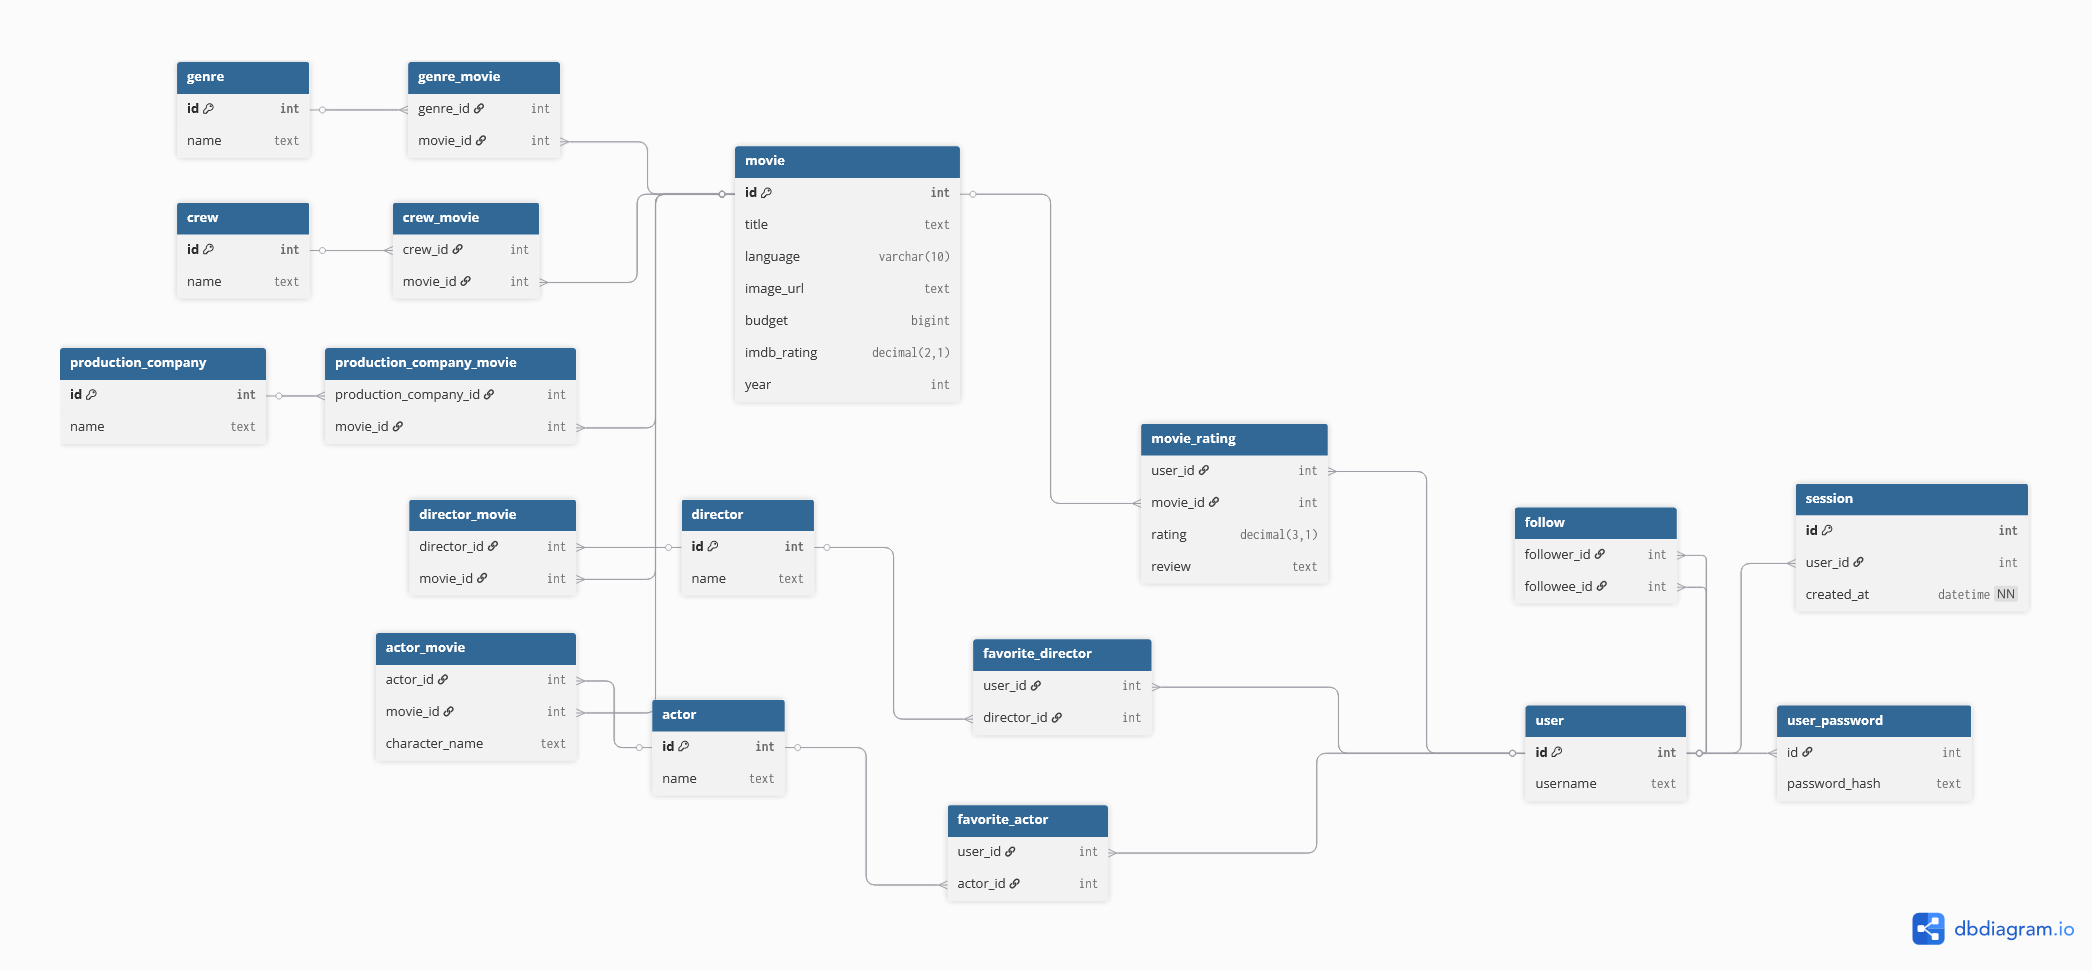
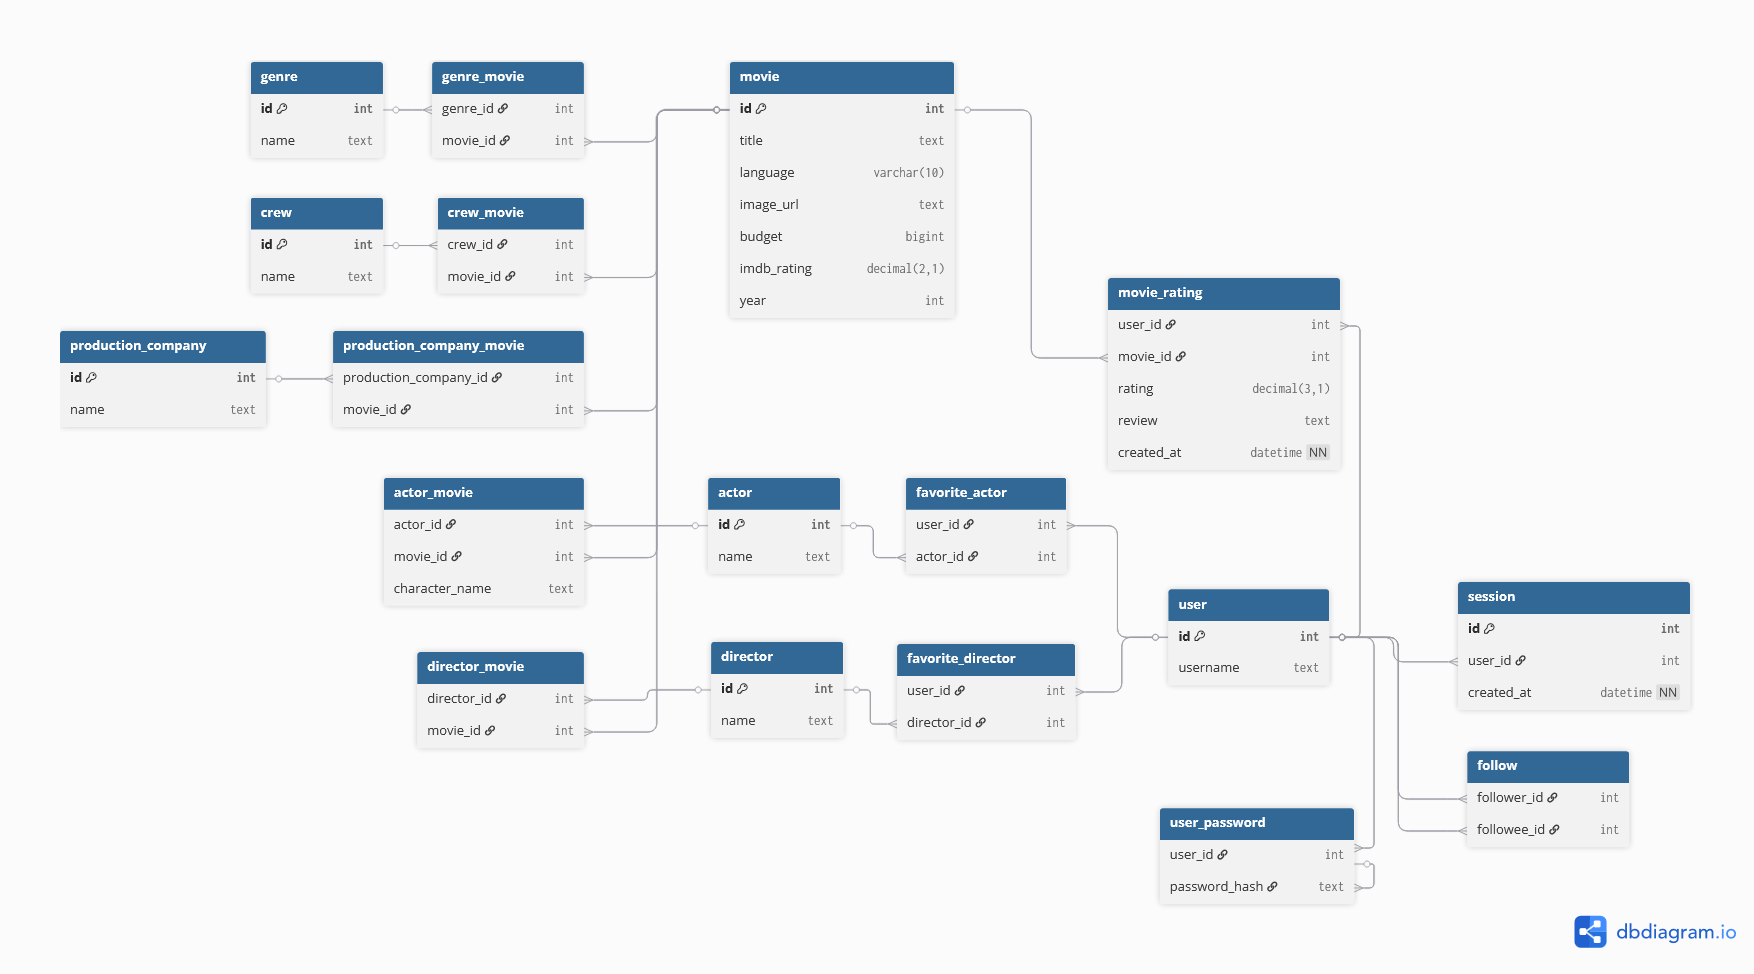
Add session token

diff --git a/database_utils.py b/database_utils.py
@@ -155,8 +155,6 @@ def get_movie(title, year = None) -> dict:
             sql = """insert into genre_movie (movie_id, genre_id) values (%s, %s)"""
             cursor.execute(sql, (movie_id, genre_id))
         
-        
-        
         conn.commit()
         conn.autocommit=True
         
@@ -187,9 +185,62 @@ def get_movie_by_id(id) -> dict:
         return ret
     else:
         return None
+    
+def get_movie_directors(movie_id):
+    sql = """select d.name from movie m 
+        join director_movie md on md.movie_id = m.id
+        join director d on md.director_id = d.id
+        where m.id = %s;"""
+    cursor = conn.cursor(dictionary=True)
+    cursor.execute(sql, (movie_id,))
+    ret = cursor.fetchall()
+    if ret:
+        return [i["name"] for i in ret]
+    else:
+        return []
+    
+def get_movie_genres(movie_id):
+    sql = """select g.name from movie m 
+        join genre_movie mg on mg.movie_id = m.id
+        join genre g on mg.genre_id = g.id
+        where m.id = %s;"""
+    cursor = conn.cursor(dictionary=True)
+    cursor.execute(sql, (movie_id,))
+    ret = cursor.fetchall()
+    if ret:
+        return [i["name"] for i in ret]
+    else:
+        return []
+    
+def get_movie_production_company(movie_id):
+    sql = """select p.name from movie m 
+        join production_company_movie mp on mp.movie_id = m.id
+        join production_company p on mp.production_company_id = p.id
+        where m.id = %s;"""
+    cursor = conn.cursor(dictionary=True)
+    cursor.execute(sql, (movie_id,))
+    ret = cursor.fetchall()
+    if ret:
+        return [i["name"] for i in ret]
+    else:
+        return []
         
-def insert_review():
-    pass        
+def insert_review(user_id, movie_id, rating, review):
+    sql = """insert into movie_rating (user_id, movie_id, rating, review) values (%s, %s, %s, %s);"""
+    
+    cursor = conn.cursor(dictionary=True)
+    cursor.execute(sql, (user_id, movie_id, rating, review))
+    
+def get_user_reviews(user_id):
+    sql = """select * from movie_rating where user_id = %s order by created_at desc;"""
+    cursor = conn.cursor(dictionary=True)
+    cursor.execute(sql, (user_id,))
+    ret = cursor.fetchall()
+    if ret:
+        return ret
+    else:
+        return []
+     
 
 def get_user_id(username):
     """
@@ -204,6 +255,34 @@ def get_user_id(username):
     else:
         return None
 
+def insert_follow(follower_id, folowee_id):
+    sql = "insert into follow (follower_id, followee_id) values (%s, %s);"
+    cursor = conn.cursor(dictionary=True)
+    cursor.execute(sql, (follower_id, folowee_id))
+
+def get_followers(user_id):
+    sql = """select u.username from follow f
+            join user u on f.follower_id = u.id
+            where f.followee_id = %s;"""
+    cursor = conn.cursor(dictionary=True)
+    cursor.execute(sql, (user_id,))
+    ret = cursor.fetchall()
+    if ret:
+        return [i["username"] for i in ret]
+    else:
+        return []
+
+def get_followees(user_id):
+    sql = """select u.username from follow f
+            join user u on f.followee_id = u.id
+            where f.follower_id = %s;"""
+    cursor = conn.cursor(dictionary=True)
+    cursor.execute(sql, (user_id,))
+    ret = cursor.fetchall()
+    if ret:
+        return [i["username"] for i in ret]
+    else:
+        return []
 
 def make_user(username, password):
     sql = "insert into user (username) values (%s);"
@@ -228,10 +307,20 @@ def make_session(user_id):
     sql = """insert into session (user_id) values (%s)"""
     cursor = conn.cursor(dictionary=True)
     cursor.execute(sql, (user_id,))
-    
+    return cursor.lastrowid
     
 if __name__ == "__main__":
-    rows = get_movie("Avatar")
-    print(rows)
+    #rows = get_movie("Avatar")
+    #print(rows)
+    print(get_movie("Avatar"))
     
-    print(get_movie("The Godfather"))
+    # insert_review(get_user_id("mrpoopypants"),get_movie("Long Kiss Goodnight")["id"], 7, "Wow I just Love Sammy J!")
+    #print(get_movie("Austin Powers in Goldmember"))
+    '''print(get_user_reviews(get_user_id("mrpoopypants")))
+    print(get_movie_directors(get_movie("Long Kiss Goodnight")["id"]))
+    print(get_movie_genres(get_movie("Long Kiss Goodnight")["id"]))
+    print(get_movie_production_company(get_movie("Long Kiss Goodnight")["id"]));'''
+    
+    #insert_follow(get_user_id("yungmarsh"), get_user_id("mrpoopypants"))
+    print(get_followers(get_user_id("mrpoopypants")))
+    print(get_followees(get_user_id("yungmarsh")))

diff --git a/app.py b/app.py
@@ -3,6 +3,8 @@
 from flask import Flask, render_template, session, request, redirect, url_for
 import database_utils
 
+
+
 # Flask constructor takes the name of 
 # current module (__name__) as argument.
 app = Flask(__name__)
@@ -17,6 +19,7 @@ def login():
     password = request.form.get('password')
 
     if database_utils.verify_user(username, password):
+        session["token"] = database_utils.make_session(database_utils.get_user_id(username))
         return redirect(url_for('myprofile'))
     else:
         return render_template('login.html', error=True)
@@ -30,6 +33,7 @@ def signup_submit():
     username = request.form.get('username') 
     password = request.form.get('password')
     database_utils.make_user(username, password)
+    session["token"] = database_utils.make_session(database_utils.get_user_id(username))
     return redirect(url_for('hello_world'))
 
 @app.route('/myprofile')
@@ -49,4 +53,6 @@ if __name__ == '__main__':
 
     # run() method of Flask class runs the application 
     # on the local development server.
+    app.secret_key = database_utils.API_KEY # No one should know this except us
+    app.config['SESSION_TYPE'] = 'memcache'
     app.run()
